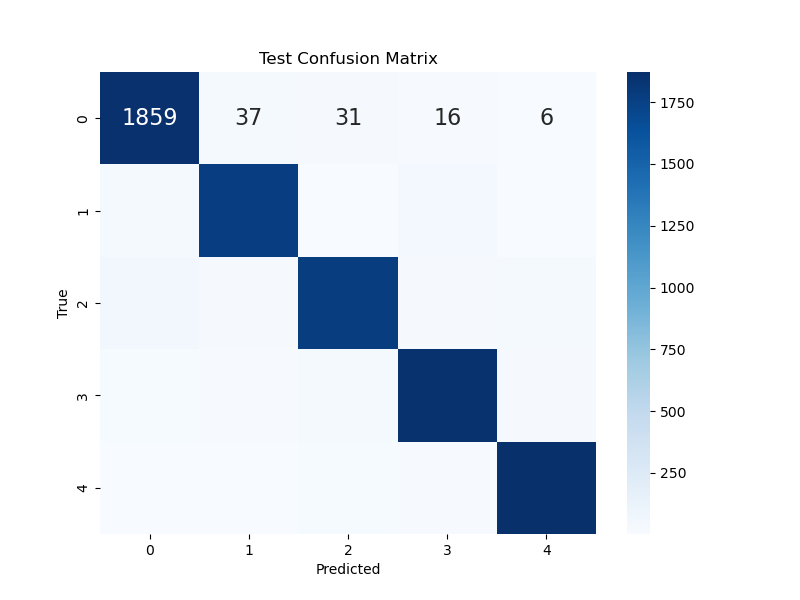
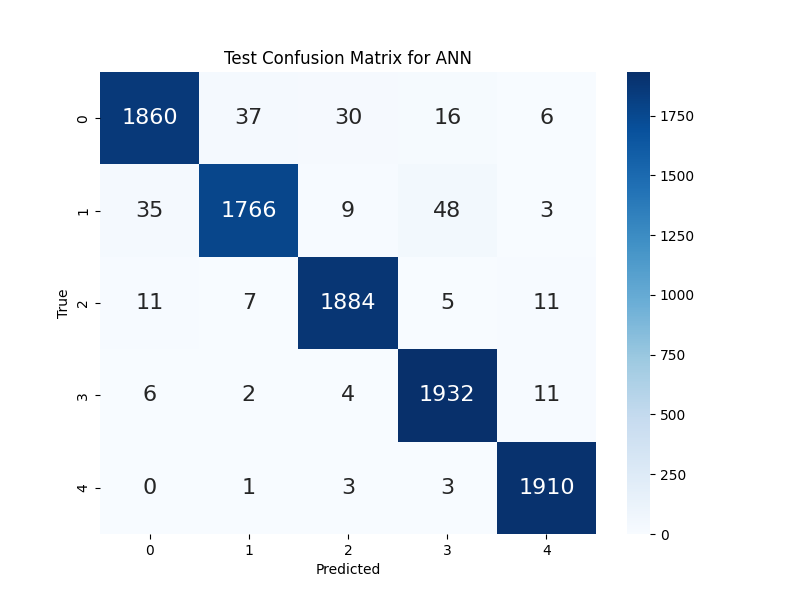
readme

diff --git a/README.md b/README.md
@@ -1,3 +1,57 @@
-# Recent
+# Recent Model
 
-![svm model predictions on dimensionally reduced data](HW/HW2/SmithEvanEE4331HW2/Part1/Results/_decisionregions.png)
+I have been working on to predict 1/5 regions an Ultrasonic Anomaly is located in given magnitude values for each frequency bin of the FFT of the signal from microphone array
+
+## Model Architecture
+
+Model: "sequential"
+
+| Layer | Output Shape | Param # |
+|-------|--------------|---------|
+| dense (Dense) | (None, 762) | 581406 |
+| dense_1 (Dense) | (None, 256) | 195328 |
+| dropout (Dropout) | (None, 256) | 0 |
+| dense_2 (Dense) | (None, 128) | 32896 |
+| dense_3 (Dense) | (None, 5) | 645 |
+
+
+Total params: 810275 (3.09 MB)
+
+Trainable params: 810275 (3.09 MB)
+
+Non-trainable params: 0 (0.00 Byte)
+
+## Dataset visualization
+
+![TSNE map of dataset](FinalProject\FinalResults\Dataset\tsne.png)
+
+![UMAP map of dataset](FinalProject\FinalResults\Dataset\umap.png)
+
+## Model Results
+
+### Metrics
+
+test Accuracy: 97.42%
+
+train Accuracy: 99.12%
+
+              precision    recall  f1-score   support
+
+           1       0.97      0.95      0.96      1949
+           2       0.97      0.95      0.96      1861
+           3       0.98      0.98      0.98      1918
+           4       0.96      0.99      0.98      1955
+           5       0.98      1.00      0.99      1917
+    accuracy                           0.97      9600
+
+### Confusion Matrix
+
+![Matrix](FinalProject\FinalResults\ANN\test_confusion_matrix.png)
+
+### ROC Curve
+
+![ROC](FinalProject\FinalResults\ANN\roc_curve.png)
+
+## Accuracy/Loss Plots
+
+![Accuracy](FinalProject\FinalResults\ANN\acc_loss_plot.png)
